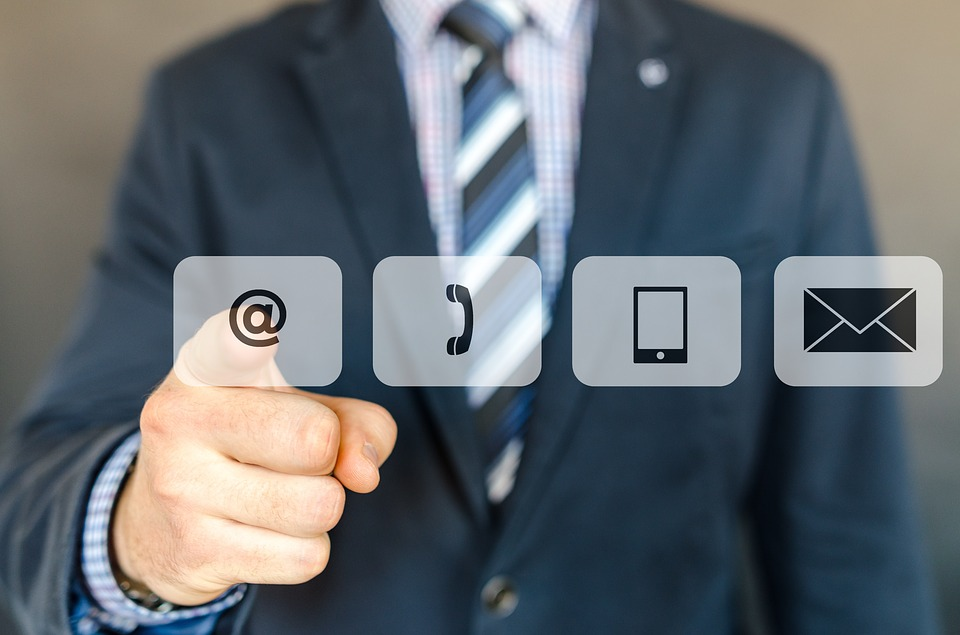
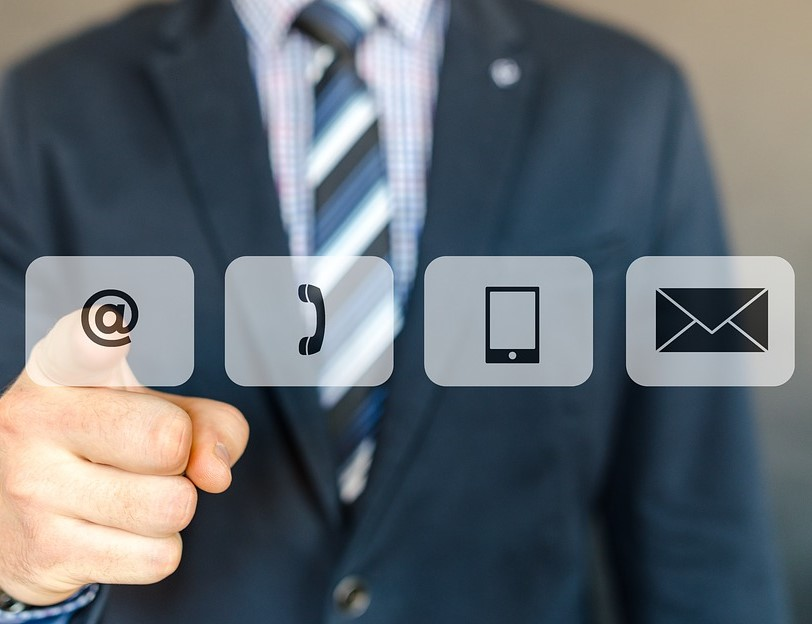
ändard storlek på bilder

diff --git a/design.css b/design.css
@@ -53,7 +53,7 @@ background-position: center;
 meny ul{
 list-style-type: none;
 float: center;
-font-size: 15px;
+font-size: 14px;
 color: darkblue;
 }
 
@@ -94,7 +94,7 @@ padding: 30px;
 width: 100%;
 height: 100%;
 background: url('boking.jpg');
-
+width: 100%;
 }
 
 .start{
@@ -125,6 +125,7 @@ font-size: 10.px;
 letter-spacing:5px;
 color: darkblue;
 padding:3px;
+text-align: center;
 border: 0px solid darkblue;
 
 
@@ -133,13 +134,13 @@ border: 0px solid darkblue;
 
 .tjanster{
 color: darkred;
-font-size: 30px;
-text-align: left;
+font-size: 20px;
+text-align: center;
 padding: 30px;
 width: 100%;
-height: 35vh;
+height: 100%;
 background: url('reparing.jpg');
-
+width: 100%;
 }
 
 
@@ -147,23 +148,25 @@ background: url('reparing.jpg');
 .info{
 color: darkred;
 font-size: 20px;
-text-align: left;
-padding: 40px;
+text-align: center;
+padding: 30px;
 width: 100%;
-height: 50vh;
+height: 100%;
 background: url('information.jpg');
+width: 100%;
 
 }
 
 
 .hitta{
-color: darkblue;
+color: darkred;
 font-size: 20px;
-text-align: left;
-padding: 40px;
+text-align: center;
+padding: 30px;
 width: 100%;
-height: 50vh;
 background: url('find.jpg');
+width: 100%;
+height: 300px;
 
 }
 
@@ -181,13 +184,15 @@ height: 20vh;
 
 
 .kontakt{
-	color: darkred;
-font-size: 30px;
-text-align: left;
+color: darkred;
+font-size: 20px;
+text-align: center;
 padding: 30px;
 width: 100%;
-height: 90vh;
+height: 500px;
 background: url('contact.jpg');
+height:600px;
+width: 100;
 
 }
 
